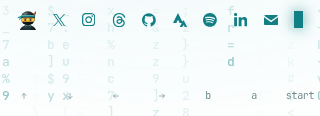
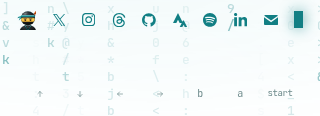
v1.70: center the konami row with room for start
Under 360px the glyphs sit in 36px boxes with 4px gaps, and a hit
area keeps each target at 40px. The row is centered with at least
12px on each side, so start stays on one line inside the screen.

diff --git a/site/index.html b/site/index.html
@@ -372,11 +372,12 @@ a:focus-visible,button:focus-visible{outline:2px solid var(--c);outline-offset:2
    once a correct press lands, the whole row picks up the live speed colour (--c: teal, or orange in fast)
    and the glow steps up by 1/11 per press (shadow alpha + a share of the opacity). never gold here.
    a miss blinks every glyph red, then back to gray. html.gld / .off hides the row (signup gold, gold flash). */
-.pad{--pad-k:0;--pad-hit:44px;--pad-gap:8px;--bad:#FF4B6E;--bad-glow:rgba(255,75,110,.92);display:flex;justify-content:space-between;align-items:center;gap:var(--pad-gap);margin-top:36px;color:var(--dim-w);user-select:none}
+.pad{--pad-k:0;--pad-box:44px;--pad-hit:44px;--pad-gap:8px;--bad:#FF4B6E;--bad-glow:rgba(255,75,110,.92);display:flex;justify-content:center;align-items:center;gap:var(--pad-gap);margin-top:36px;color:var(--dim-w);user-select:none}
 .js .pad:not(.in){opacity:0;pointer-events:none}
 .pad.in{transition:opacity .35s ease}
 .pad.go{color:var(--c);opacity:calc(.55 + .45 * var(--pad-k) / 11);transition:none}
-.pad button{flex:0 0 var(--pad-hit);width:var(--pad-hit);height:var(--pad-hit);min-width:40px;min-height:40px;box-sizing:border-box;display:flex;align-items:center;justify-content:center;padding:0;margin:0;border:0;background:none;color:inherit;font:400 12px/1 var(--mono);letter-spacing:-.03em;white-space:nowrap;cursor:pointer;--br:1;-webkit-tap-highlight-color:transparent;text-shadow:0 0 calc(2px + 12px * var(--pad-k) / 11) rgba(var(--c-rgb),calc(var(--pad-k) / 11));filter:brightness(var(--br)) drop-shadow(0 0 calc(1px + 9px * var(--pad-k) / 11) rgba(var(--c-rgb),calc(var(--pad-k) / 11)))}
+.pad button{position:relative;flex:0 0 var(--pad-box);width:var(--pad-box);height:var(--pad-box);box-sizing:border-box;display:flex;align-items:center;justify-content:center;padding:0;margin:0;border:0;background:none;color:inherit;font:400 12px/1 var(--mono);letter-spacing:-.03em;white-space:nowrap;overflow:visible;cursor:pointer;--br:1;-webkit-tap-highlight-color:transparent;text-shadow:0 0 calc(2px + 12px * var(--pad-k) / 11) rgba(var(--c-rgb),calc(var(--pad-k) / 11));filter:brightness(var(--br)) drop-shadow(0 0 calc(1px + 9px * var(--pad-k) / 11) rgba(var(--c-rgb),calc(var(--pad-k) / 11)))}
+.pad button::before{content:"";position:absolute;left:50%;top:50%;width:var(--pad-hit);height:var(--pad-hit);transform:translate(-50%,-50%)}
 .pad button svg{width:13px;height:13px;display:block;overflow:visible}
 .pad button:hover,.pad button:focus-visible,.pad button:active{--br:1.32}
 .pad button:focus-visible{outline:1px solid rgba(var(--c-rgb),.7);outline-offset:3px}
@@ -392,10 +393,13 @@ a:focus-visible,button:focus-visible{outline:2px solid var(--c);outline-offset:2
 }
 .gld .pad,html.gld .pad,:root.gld .pad,.pad.gld,.pad:has(.gld),.pad.off{display:none!important}
 @media (prefers-color-scheme:light){.pad{--bad:#C4173A;--bad-glow:rgba(196,23,58,.75)}}
-@media (max-width:379px){
-  .pad{--pad-hit:40px;--pad-gap:6px}
+@media (max-width:389px){
   .pad button{font-size:10px}
   .pad button svg{width:10px;height:10px}
+}
+@media (max-width:359px){
+  .pad{--pad-box:36px;--pad-hit:40px;--pad-gap:4px}
+  .pad button[data-k="start"]{font-size:9px;letter-spacing:-.05em}
 }
 @media (prefers-reduced-motion:reduce){
   .pad,.pad.in,.pad.go{transition:none}
@@ -928,26 +932,34 @@ const haptic = (() => {
 function syncPad(){
   const pad = document.querySelector('.pad'); if (!pad || !ul.offsetWidth) return;
   const n = pad.querySelectorAll('button').length || 7, gaps = Math.max(1, n - 1);
-  const vw = document.documentElement.clientWidth;
-  const u = ul.getBoundingClientRect(), parent = pad.parentElement.getBoundingClientRect();
-  const narrow = vw < 380;
-  let hit = narrow ? 40 : 44, gap = narrow ? 6 : 8;
-  let width = hit * n + gap * gaps;
-  if (!narrow){
-    const row = Math.min(vw, Math.round(u.width));
-    const spread = (row - hit * n) / gaps;
-    if (spread >= 8){ gap = spread; width = row; }
-    else if ((vw - hit * n) / gaps >= 8){ gap = 8; width = hit * n + gap * gaps; }
-    else { hit = 40; gap = Math.min(6, Math.max(4, Math.floor((vw - hit * n) / gaps))); width = hit * n + gap * gaps; }
-  } else {
-    gap = Math.min(6, Math.max(4, Math.floor((vw - hit * n) / gaps)));
-    width = hit * n + gap * gaps;
+  const vw = document.documentElement.clientWidth, side = 12, maxW = vw - side * 2;
+  const parent = pad.parentElement.getBoundingClientRect();
+  let box = 44, gap = 8, hit = 44;
+  if (vw < 360){ box = 36; gap = 4; hit = 40; }
+  else if (box * n + gap * gaps > maxW){
+    box = 40; hit = 40;
+    gap = Math.min(8, Math.max(4, Math.floor((maxW - box * n) / gaps)));
   }
-  if (width > vw){ gap = Math.max(4, gap - 1); width = hit * n + gap * gaps; }
-  let left = Math.max(0, Math.round(u.left));
-  if (left + width > vw) left = Math.max(0, vw - width);
-  pad.style.width = width + 'px';
+  let width = box * n + gap * gaps;
+  if (width > maxW){
+    gap = 4; box = Math.max(36, Math.floor((maxW - gap * gaps) / n)); hit = Math.max(box, 40);
+    width = box * n + gap * gaps;
+  }
+  let left = (vw - width) / 2;
+  if (vw >= 761){
+    const u = ul.getBoundingClientRect(), socialW = u.width;
+    const spread = (Math.min(socialW, maxW) - 44 * n) / gaps;
+    if (spread >= 8){
+      box = 44; hit = 44; gap = spread; width = 44 * n + gap * gaps;
+      left = u.left + (u.width - width) / 2;
+      if (left < side || left + width > vw - side){ box = 44; hit = 44; gap = 8; width = 44 * n + 8 * gaps; left = (vw - width) / 2; }
+    }
+  }
+  left = Math.round(left);
+  pad.style.width = (Math.round(width * 100) / 100) + 'px';
   pad.style.marginLeft = Math.round(left - parent.left) + 'px';
+  pad.style.marginRight = '0px';
+  pad.style.setProperty('--pad-box', box + 'px');
   pad.style.setProperty('--pad-hit', hit + 'px');
   pad.style.setProperty('--pad-gap', (Math.round(gap * 100) / 100) + 'px');
 }
